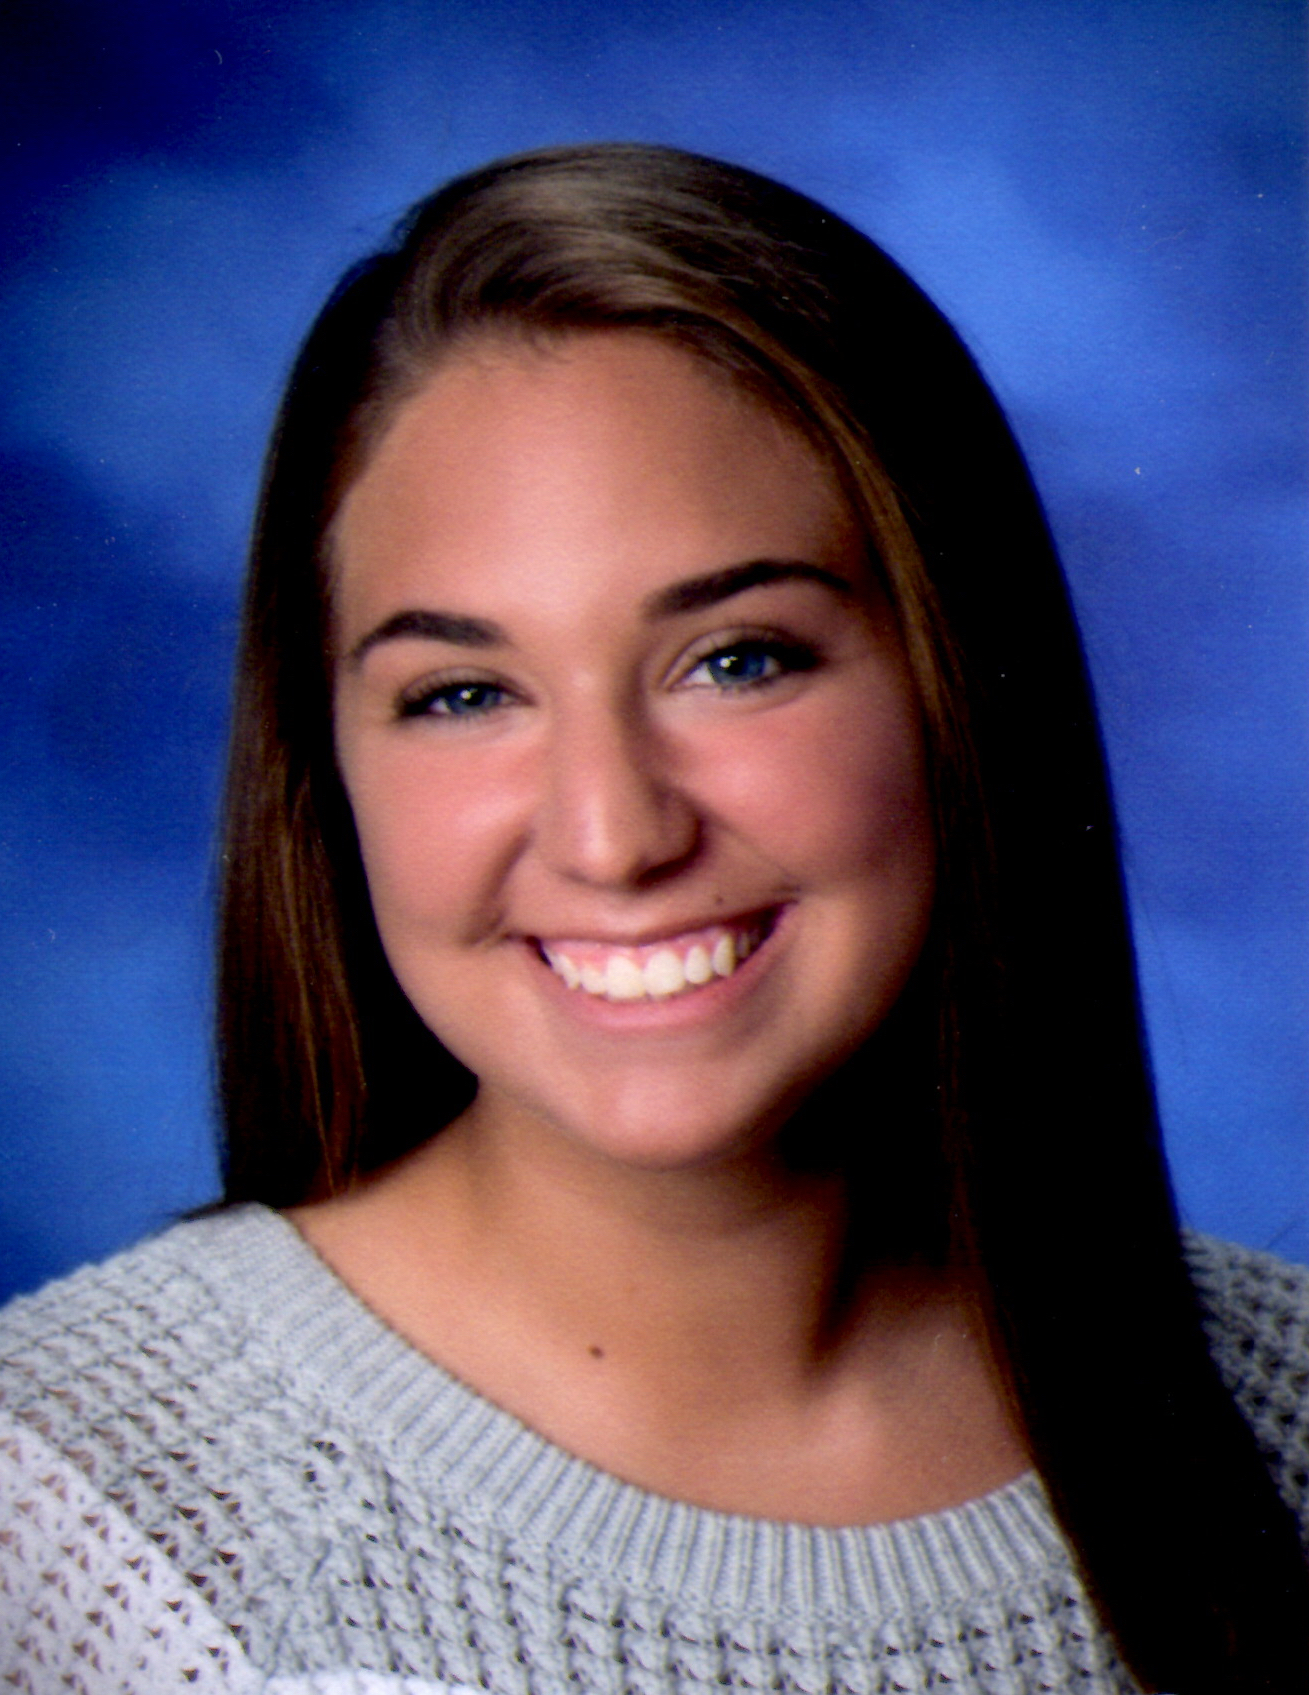
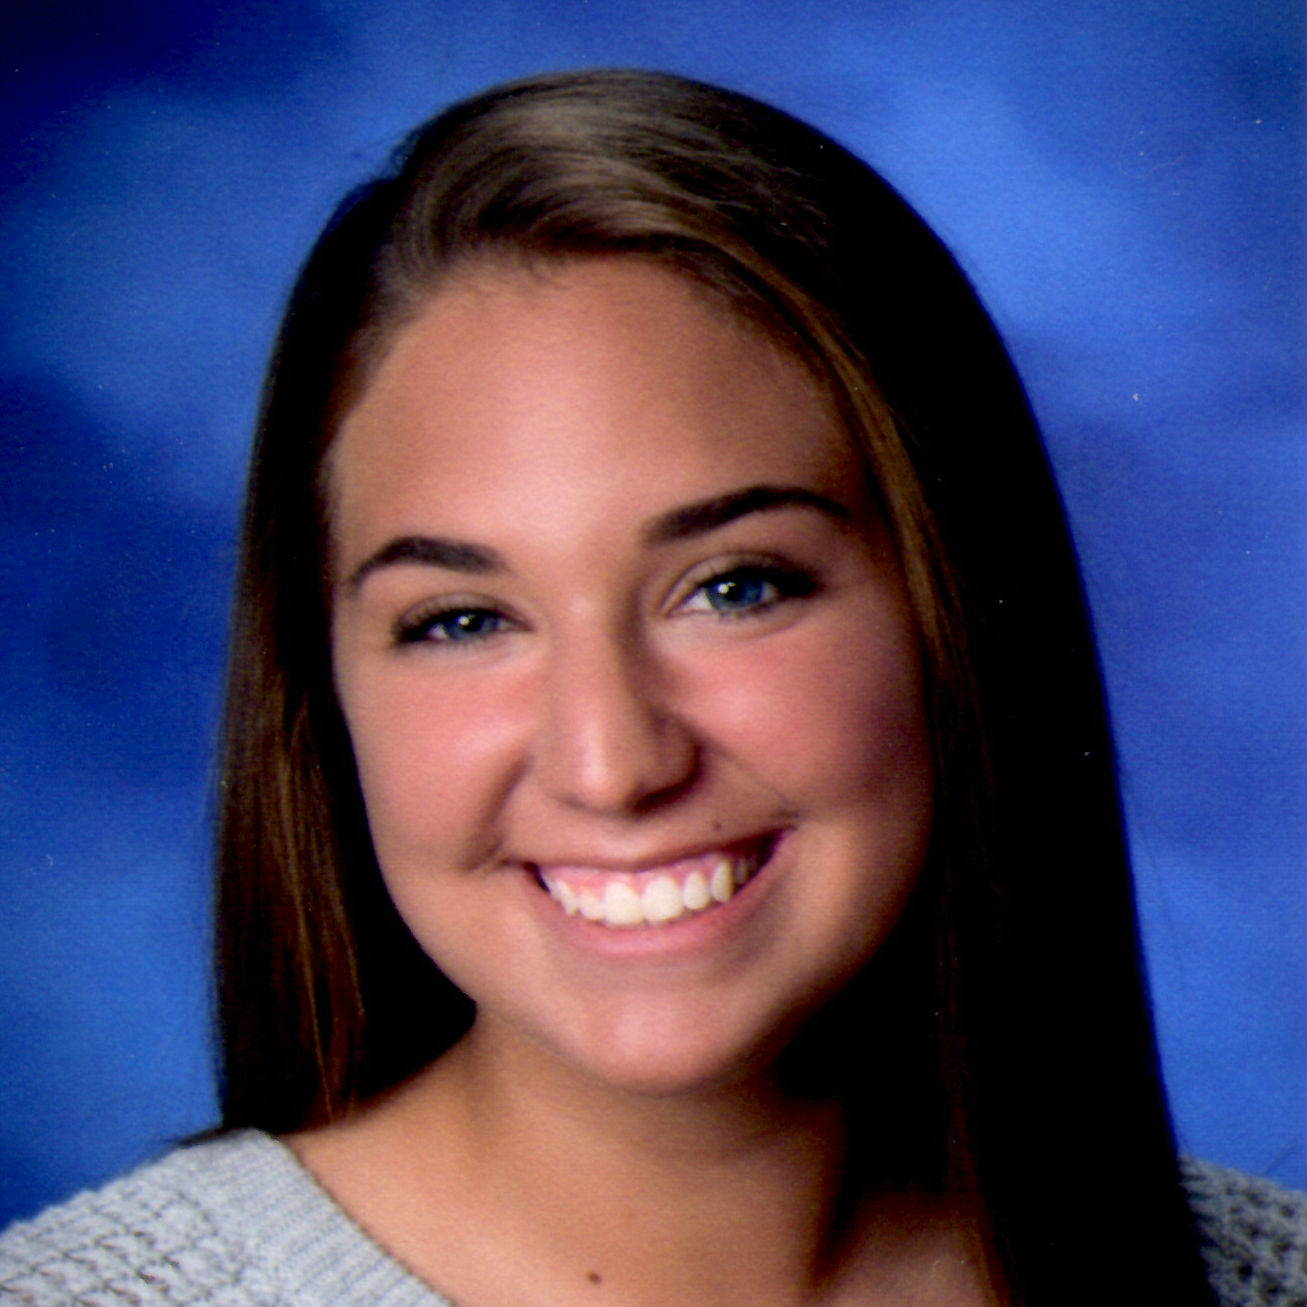
added board pictures

diff --git a/index.html b/index.html
@@ -48,6 +48,10 @@
             <div class="info_block" id="next_event">
                 <div class="info">
                     <p class="main"><strong>Next event</strong></p>
+                    <p class="sub">Mass Meeting / Bocce</p>
+                    <p class="sub">09/12/2018</p>
+                    <p class="sub">6:00pm-7:00pm</p>
+                    <p class="sub">Diag</p>
                 </div>
             </div>
 
@@ -69,7 +73,7 @@
 
             <script src="./scripts/vertical_align.js"></script>
             <script src="https://apis.google.com/js/api.js"></script>
-            <script src="./scripts/load_events.js"></script>
+            <!--<script src="./scripts/load_events.js"></script>-->
 
         </div>
     </body>

diff --git a/scripts/board_page.js b/scripts/board_page.js
@@ -27,8 +27,10 @@ $(document).ready(function(){
 
             // if there is a photo, use that
             if (member.hasPhoto == "true") {
+                var name = member.firstName.replace(/\s+/g, "") + member.lastName.replace(/\s+/g, "");
+                console.log(name);
                 element.prepend("<img src='assets/img/board/" +
-                    (member.firstName + member.lastName).toLowerCase() + ".jpg'>");
+                    name.toLowerCase() + ".jpg'>");
             }
             // otherwise use the temporary incognito icon
             else {
